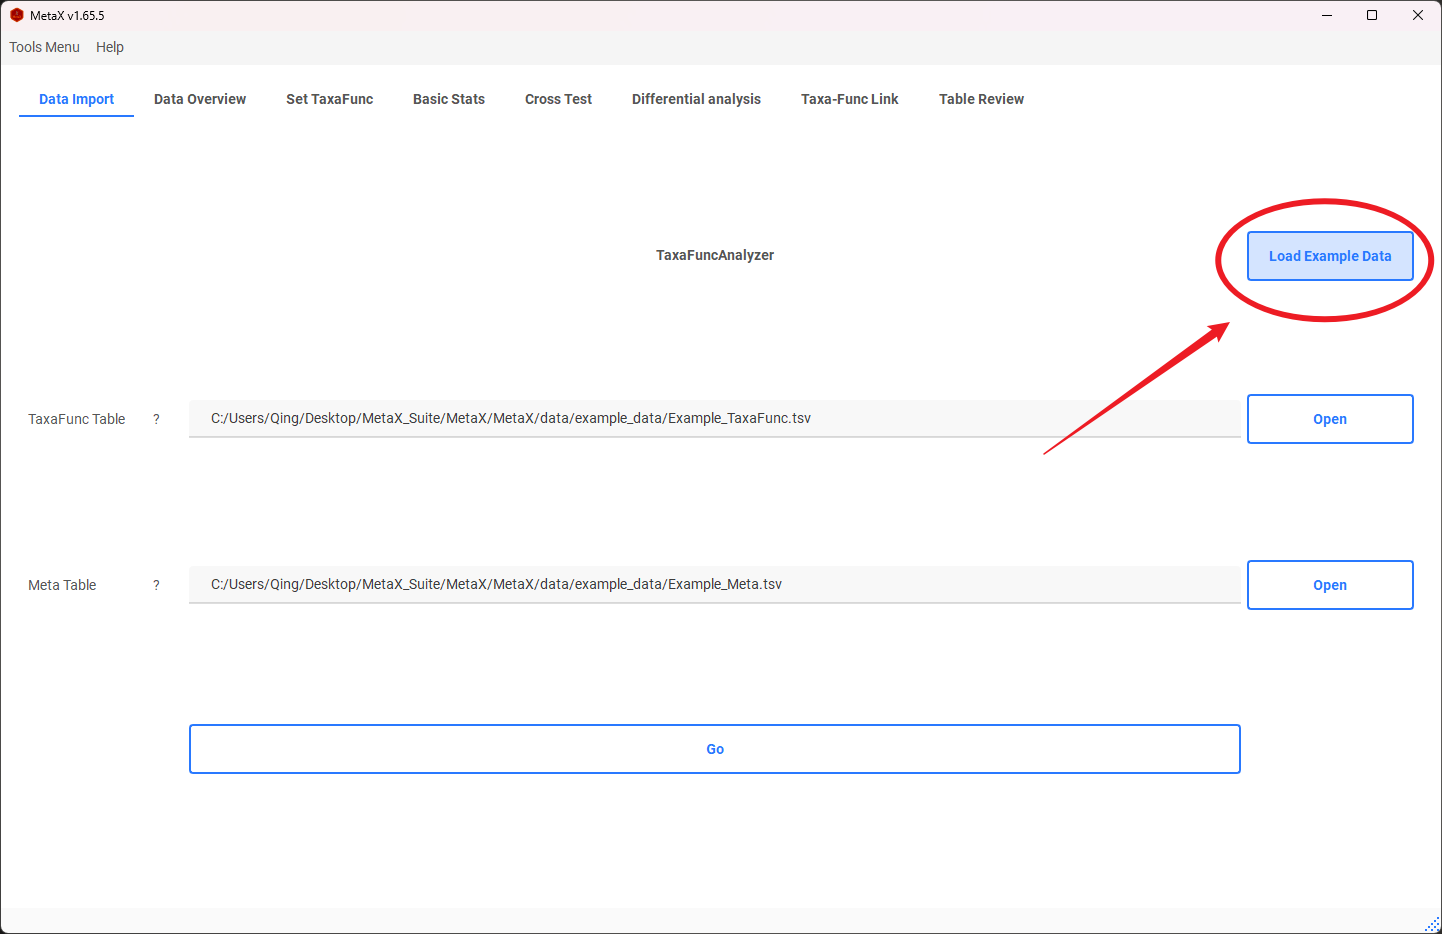
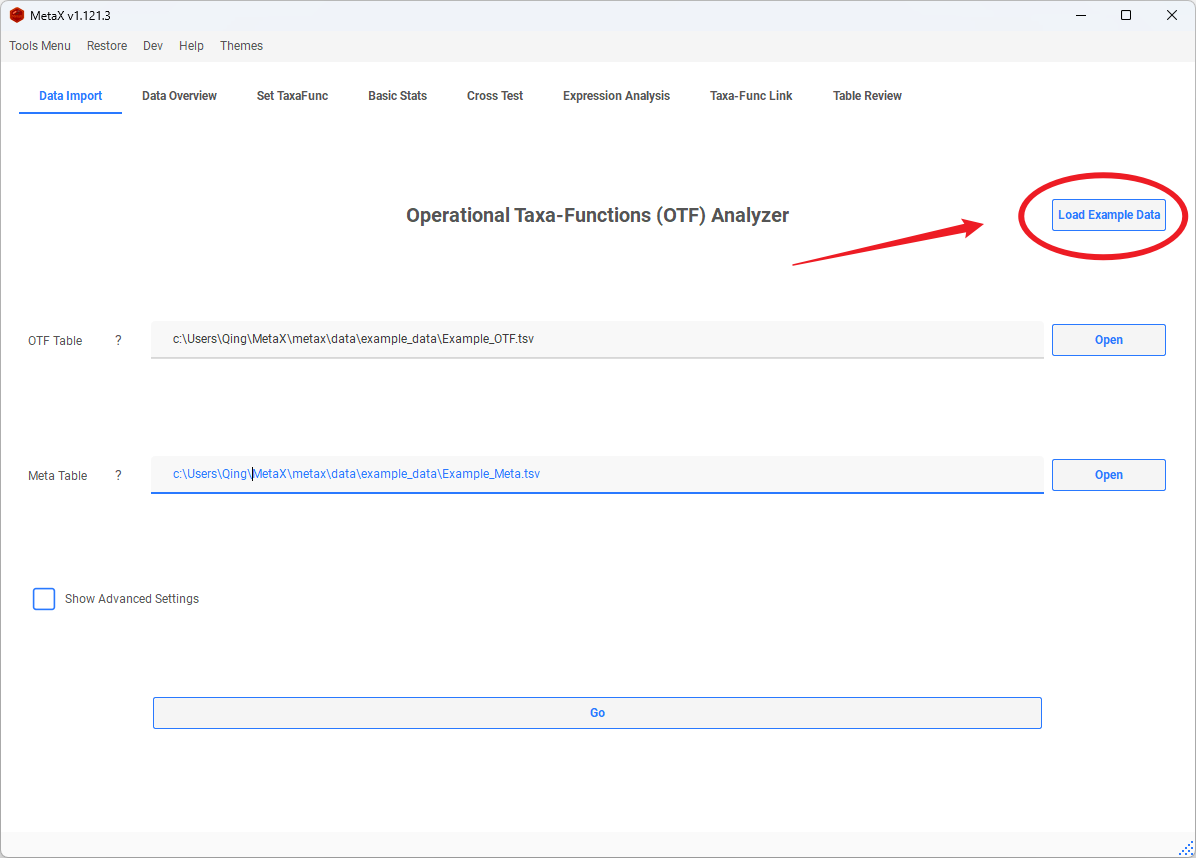
1.Nomralize the path before set it to the `LineEdit` widget. 2.Updated the MetaX_Cookbook.md file.

diff --git a/metax/gui/main_gui.py b/metax/gui/main_gui.py
@@ -1864,18 +1864,21 @@ class MetaXGUI(ui_main_window.Ui_metaX_main,QtStyleTools):
     def set_lineEdit_db_path(self):
         db_path = QFileDialog.getOpenFileName(self.MainWindow, 'Select Database', self.last_path, 'sqlite3 (*.db)')[0]
         self.last_path = os.path.dirname(db_path)
+        db_path = os.path.normpath(db_path)
         self.lineEdit_db_path.setText(db_path)
 
     
     def set_lineEdit_final_peptide_path(self):
         final_peptide_path = QFileDialog.getOpenFileName(self.MainWindow, 'Select Final Peptide Table', self.last_path, 'tsv (*.tsv *.txt)')[0]
         self.last_path = os.path.dirname(final_peptide_path)
+        final_peptide_path = os.path.normpath(final_peptide_path)
         self.lineEdit_final_peptide_path.setText(final_peptide_path)
     
     def set_lineEdit_peptide2taxafunc_outpath(self):
         # set default file name as 'OTF.tsv'
         peptide2taxafunc_outpath = QFileDialog.getSaveFileName(self.MainWindow, 'Save Operational Taxa-Functions (OTF) Table', os.path.join(self.last_path, 'OTF.tsv'), 'tsv (*.tsv)')[0]
         self.last_path = os.path.dirname(peptide2taxafunc_outpath)
+        peptide2taxafunc_outpath = os.path.normpath(peptide2taxafunc_outpath)
         self.lineEdit_peptide2taxafunc_outpath.setText(peptide2taxafunc_outpath)
     ## peptideAnnotator MAG tab end
     
@@ -1893,6 +1896,11 @@ class MetaXGUI(ui_main_window.Ui_metaX_main,QtStyleTools):
                 return
             
         # set the path to lineEdit
+        # normalize the path first
+        metalab_res_folder = os.path.normpath(metalab_res_folder)
+        peptide_file = os.path.normpath(peptide_file)
+        pepTaxa_file = os.path.normpath(pepTaxa_file)
+        functions_file = os.path.normpath(functions_file)            
         self.lineEdit_metalab_res_folder.setText(metalab_res_folder)
         self.lineEdit_metalab_anno_peptides_report.setText(peptide_file)
         self.lineEdit_metalab_anno_built_in_taxa.setText(pepTaxa_file)
@@ -1903,21 +1911,25 @@ class MetaXGUI(ui_main_window.Ui_metaX_main,QtStyleTools):
     def set_lineEdit_metalab_anno_peptides_report_path(self):
         metalab_anno_peptides_report_path = QFileDialog.getOpenFileName(self.MainWindow, 'Select MetaLab Annotated Peptides Report', self.last_path, 'txt (*.txt);;All Files (*)')[0]
         self.last_path = os.path.dirname(metalab_anno_peptides_report_path)
+        metalab_anno_peptides_report_path = os.path.normpath(metalab_anno_peptides_report_path)
         self.lineEdit_metalab_anno_peptides_report.setText(metalab_anno_peptides_report_path)
     
     def set_lineEdit_metalab_anno_built_in_taxa_path(self):
         metalab_anno_built_in_taxa_path = QFileDialog.getOpenFileName(self.MainWindow, 'Select MetaLab Annotated Built-in Taxa', self.last_path, 'CSV Files (*.csv);;All Files (*)')[0]
         self.lineEdit_metalab_anno_built_in_taxa.setText(metalab_anno_built_in_taxa_path)
+        metalab_anno_built_in_taxa_path = os.path.normpath(metalab_anno_built_in_taxa_path)
         self.last_path = os.path.dirname(metalab_anno_built_in_taxa_path)
     
     def set_lineEdit_metalab_anno_functions_path(self):
         metalab_anno_functions_path = QFileDialog.getOpenFileName(self.MainWindow, 'Select MetaLab Annotated Functions', self.last_path, 'TSV Files (*.tsv);;All Files (*)')[0]
         self.lineEdit_metalab_anno_functions.setText(metalab_anno_functions_path)
+        metalab_anno_functions_path = os.path.normpath(metalab_anno_functions_path)
         self.last_path = os.path.dirname(metalab_anno_functions_path)
         
     def set_lineEdit_metalab_anno_otf_save_path(self):
         metalab_anno_otf_save_path = QFileDialog.getSaveFileName(self.MainWindow, 'Save MetaLab Annotated OTF Table', os.path.join(self.last_path, 'OTF.tsv'), 'tsv (*.tsv)')[0]
         self.last_path = os.path.dirname(metalab_anno_otf_save_path)
+        metalab_anno_otf_save_path = os.path.normpath(metalab_anno_otf_save_path)
         self.lineEdit_metalab_anno_otf_save_path.setText(metalab_anno_otf_save_path)
         
     ## peptideAnnotator MetaLab2.3 tab end
@@ -1926,21 +1938,25 @@ class MetaXGUI(ui_main_window.Ui_metaX_main,QtStyleTools):
     def set_lineEdit_pep_direct_to_otf_peptide_path(self):
         pep_direct_to_otf_peptide_path = QFileDialog.getOpenFileName(self.MainWindow, 'Select Peptide Table', self.last_path, 'tsv (*.tsv *.txt *.csv)')[0]
         self.last_path = os.path.dirname(pep_direct_to_otf_peptide_path)
+        pep_direct_to_otf_peptide_path = os.path.normpath(pep_direct_to_otf_peptide_path)
         self.lineEdit_pep_direct_to_otf_peptide_path.setText(pep_direct_to_otf_peptide_path)
         
     def set_lineEdit_pep_direct_to_otf_digestied_pep_db_path(self):
         digestied_pep_db_path = QFileDialog.getOpenFileName(self.MainWindow, 'Select Digestied Peptide Database', self.last_path, 'sqlite3 (*.db)')[0]
         self.last_path = os.path.dirname(digestied_pep_db_path)
+        digestied_pep_db_path = os.path.normpath(digestied_pep_db_path)
         self.lineEdit_pep_direct_to_otf_digestied_pep_db_path.setText(digestied_pep_db_path)
     
     def set_lineEdit_pep_direct_to_otf_pro2taxafunc_db_path(self):
         pro2taxafunc_db_path = QFileDialog.getOpenFileName(self.MainWindow, 'Select Protein to Taxa-Functions Database', self.last_path, 'sqlite3 (*.db)')[0]
         self.last_path = os.path.dirname(pro2taxafunc_db_path)
+        pro2taxafunc_db_path = os.path.normpath(pro2taxafunc_db_path)
         self.lineEdit_pep_direct_to_otf_pro2taxafunc_db_path.setText(pro2taxafunc_db_path)
         
     def set_lineEdit_pep_direct_to_otf_output_path(self):
         pep_direct_to_otf_output_path = QFileDialog.getSaveFileName(self.MainWindow, 'Save OTF Table', os.path.join(self.last_path, 'OTF_dreict_anno.tsv'), 'tsv (*.tsv)')[0]
         self.last_path = os.path.dirname(pep_direct_to_otf_output_path)
+        pep_direct_to_otf_output_path = os.path.normpath(pep_direct_to_otf_output_path)
         self.lineEdit_pep_direct_to_otf_output_path.setText(pep_direct_to_otf_output_path)
     
     
@@ -1953,10 +1969,12 @@ class MetaXGUI(ui_main_window.Ui_metaX_main,QtStyleTools):
         example_taxafunc_path = os.path.join(test_data_dir, 'Example_OTF.tsv').replace('\\', '/')
         example_meta_path = os.path.join(test_data_dir, 'Example_Meta.tsv').replace('\\', '/')
         if os.path.exists(example_taxafunc_path):
+            example_taxafunc_path = os.path.normpath(example_taxafunc_path)
             self.lineEdit_taxafunc_path.setText(example_taxafunc_path)
         else:
             QMessageBox.warning(self.MainWindow, 'Warning', 'Example OTF table not found.')
         if os.path.exists(example_meta_path):
+            example_meta_path = os.path.normpath(example_meta_path)
             self.lineEdit_meta_path.setText(example_meta_path)
         else:
             QMessageBox.warning(self.MainWindow, 'Warning', 'Example Meta table not found.')
@@ -2220,14 +2238,17 @@ class MetaXGUI(ui_main_window.Ui_metaX_main,QtStyleTools):
     def set_lineEdit_db_own_anno_path(self):
         own_anno_path = QFileDialog.getOpenFileName(self.MainWindow, 'Select Annotation Table', self.last_path, 'tsv (*.tsv)')[0]
         self.last_path = os.path.dirname(own_anno_path)
+        own_anno_path = os.path.normpath(own_anno_path)
         self.lineEdit_db_own_anno_path.setText(own_anno_path)
     def set_lineEdit_db_own_taxa_path(self):
         own_taxa_path = QFileDialog.getOpenFileName(self.MainWindow, 'Select Taxa Table', self.last_path, 'tsv (*.tsv)')[0]
         self.last_path = os.path.dirname(own_taxa_path)
+        own_taxa_path = os.path.normpath(own_taxa_path)
         self.lineEdit_db_own_taxa_path.setText(own_taxa_path)
     def set_lineEdit_db_own_db_save_path(self):
         own_db_save_path = QFileDialog.getSaveFileName(self.MainWindow, 'Save Database', self.last_path, 'sqlite3 (*.db)')[0]
         self.last_path = os.path.dirname(own_db_save_path)
+        own_db_save_path = os.path.normpath(own_db_save_path)
         self.lineEdit_db_own_db_save_path.setText(own_db_save_path)
     def run_db_builder_own_table(self):
         anno_path = f'''{self.lineEdit_db_own_anno_path.text()}'''
@@ -2254,16 +2275,19 @@ class MetaXGUI(ui_main_window.Ui_metaX_main,QtStyleTools):
     def set_lineEdit_db_update_tsv_path(self):
         tsv_path = QFileDialog.getOpenFileName(self.MainWindow, 'Select Database Update TSV', self.last_path, 'tsv (*.tsv *)')[0]
         self.last_path = os.path.dirname(tsv_path)
+        tsv_path = os.path.normpath(tsv_path)
         self.lineEdit_db_update_tsv_path.setText(tsv_path)
     
     def set_lineEdit_db_update_old_db_path(self):
         old_db_path = QFileDialog.getOpenFileName(self.MainWindow, 'Select Old Database', self.last_path, 'sqlite3 (*.db)')[0]
         self.last_path = os.path.dirname(old_db_path)
+        old_db_path = os.path.normpath(old_db_path)
         self.lineEdit_db_update_old_db_path.setText(old_db_path)
     
     def set_lineEdit_db_update_new_db_path(self):
         new_db_path = QFileDialog.getSaveFileName(self.MainWindow, 'Save New Database', self.last_path, 'sqlite3 (*.db)')[0]
         self.last_path = os.path.dirname(new_db_path)
+        new_db_path = os.path.normpath(new_db_path)
         self.lineEdit_db_update_new_db_path.setText(new_db_path)
     
     def run_db_updater(self):
@@ -2471,11 +2495,13 @@ class MetaXGUI(ui_main_window.Ui_metaX_main,QtStyleTools):
     def set_lineEdit_taxafunc_path(self):
         taxafunc_path = QFileDialog.getOpenFileName(self.MainWindow, 'Select OTF Table', self.last_path, 'tsv (*.tsv *.txt)')[0]
         self.last_path = os.path.dirname(taxafunc_path)
+        taxafunc_path = os.path.normpath(taxafunc_path)
         self.lineEdit_taxafunc_path.setText(taxafunc_path)
     
     def set_lineEdit_meta_path(self):
         meta_path = QFileDialog.getOpenFileName(self.MainWindow, 'Select Meta Table', self.last_path, 'tsv (*.tsv *.txt)')[0]
         self.last_path = os.path.dirname(meta_path)
+        meta_path = os.path.normpath(meta_path)
         self.lineEdit_meta_path.setText(meta_path)
     #### Basic Function End ####
 
@@ -6145,16 +6171,19 @@ class MetaXGUI(ui_main_window.Ui_metaX_main,QtStyleTools):
     def set_lineEdit_db_all_meta_path(self):
         db_all_meta_path = QFileDialog.getOpenFileName(self.MainWindow, 'Select All Meta Table', self.last_path, 'tsv (*.tsv)')[0]
         self.last_path = os.path.dirname(db_all_meta_path)
+        db_all_meta_path = os.path.normpath(db_all_meta_path)
         self.lineEdit_db_all_meta_path.setText(db_all_meta_path)
     
     def set_lineEdit_db_anno_folder(self):
         db_anno_folder = QFileDialog.getExistingDirectory(self.MainWindow, 'Select Annotation Folder', self.last_path)
         self.last_path = db_anno_folder
+        db_anno_folder = os.path.normpath(db_anno_folder)
         self.lineEdit_db_anno_folder.setText(db_anno_folder)
 
     def set_lineEdit_db_save_path(self):
         db_save_path = QFileDialog.getExistingDirectory(self.MainWindow, 'Select Save Folder for MetaX-DataBase.db', self.last_path)
         self.last_path = db_save_path
+        db_save_path = os.path.normpath(db_save_path)
         self.lineEdit_db_save_path.setText(db_save_path)
 ###############   Class MetaXGUI End   ###############
 

diff --git a/metax/gui/metax_gui/generic_thread.py b/metax/gui/metax_gui/generic_thread.py
@@ -46,7 +46,7 @@ class FunctionExecutor(QMainWindow):
         # set the size of the window as 1/3 of the screen
         size = QApplication.primaryScreen().size()
         
-        self.resize(int(size.width() // 2.5), int(size.height() // 3.5))
+        self.resize(int(size.width() // 2.2), int(size.height() // 3.5))
 
         # set flag as the window size can be changed
         # self.setSizePolicy(QSizePolicy.Expanding, QSizePolicy.Expanding)

diff --git a/Docs/MetaX_Cookbook.md b/Docs/MetaX_Cookbook.md
@@ -66,6 +66,14 @@ You can load example data by **clicking the button**.
 
 Then, click **Go** to start the analysis.
 
+- **Advanced Settings**
+  - ![ad_settings_otf_analyzer](./MetaX_Cookbook.assets/ad_settings_otf_analyzer.png)
+  - **Peptide Column Name:** Specifies the column in the OTF table that contains peptide information.
+  - **Protein Column Name:** Specifies the column in the OTF table that contains protein information (only required if protein summation is performed in downstream analysis).
+  - **Sample Column Prefix:** Identifies the prefix of sample columns to determine intensity columns in the OTF table.
+  - **Any Data Mode:** Allows analysis of any table using MetaX, not limited to OTF tables (only partial tool functionality is available).
+    - **Customized Table Item Column Name:** Specifies the column containing item names in any data mode. If left empty, the first column will be selected by default.
+
 ## 2. Data Overview
 
 The Data Overview provides basic information about your data, such as the number of taxa, functions, and proportions.
@@ -792,11 +800,7 @@ The peptide results from **MetaLab 2.3** MaxQuant workflow.
 
   - <img src="MetaX_Cookbook.assets/show_console.png" alt="show_console"  />
 
-- **Any Table Mode**
-
-  - <u>Any Table Mode</u> enables us to use **any matrix** for basic statistical analysis in MetaX.
-
-  - ![](MetaX_Cookbook.assets/any_table_mode.png)
+  
 
 - Settings
 
